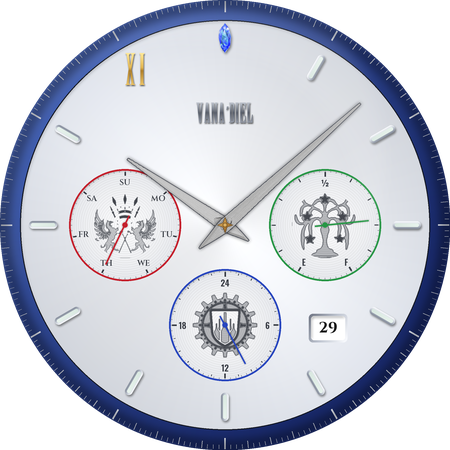
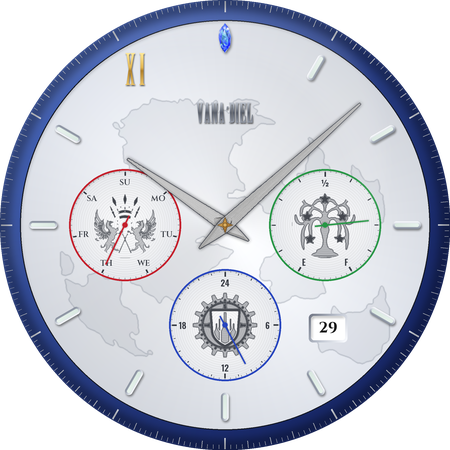
Watch face: faint Vana'diel world map behind all three styles
Land shapes are cut from the supplied parchment map (blue/red ratio,
which separates the tan land from the paler sea and its darker vignette)
into tools/emblems/worldmap_land.png, then drawn as a soft outline: light
on Classic's navy, a thin dim line on Dark, light-grey print on Light.
Always-on stays plain black.

Claude-Session: https://claude.ai/code/session_01DhcV9kAg7FMXufVfZQP7Ta

diff --git a/ffxi-watchface/tools/generate_assets.py b/ffxi-watchface/tools/generate_assets.py
@@ -23,6 +23,7 @@ FONT_LABEL = os.path.join(FONTS, 'Cinzel-SemiBold.ttf')  # nation names, day nam
 FONT_NUM = os.path.join(FONTS, 'Oswald-SemiBold.ttf')    # sub-dial numerals
 FONT_FF = os.path.join(FONTS, 'FinalFantasy.ttf')        # caps only; no digits/space/'
 EMBLEMS = os.path.join(os.path.dirname(__file__), 'emblems')  # square crops of the nation crests
+WORLD_LAND = os.path.join(EMBLEMS, 'worldmap_land.png')      # Vana'diel land mask
 
 # Layout (in 450px units) -- keep in sync with watchface.xml
 SUB_OFFSET = 100   # sub-dial centre distance from main centre
@@ -434,8 +435,11 @@ def make_dial(ambient=False, bright=0.6):
     size = (s(N), s(N))
     if ambient:
         img = Image.new('RGBA', size, (0, 0, 0, 255))
+        if bright >= 1:   # Dark style only; always-on stays plain black
+            draw_world(img, (0, 0, 0, 0), (70, 76, 90, 255), width=0.8)
     else:
         img = sunburst(size)
+        draw_world(img, (200, 215, 255, 14), (200, 215, 255, 46))
         # chapter ring: dark gunmetal, stepped down from the dial with a bright chamfer
         metal_ring(img, C, C, s(226), s(206), (10, 13, 19), (58, 64, 78))
         inner_shadow(img, ring_mask(size, C, C, s(226), s(206)), depth=1.2, blur=1.0, alpha=0.5)
@@ -507,7 +511,6 @@ POSITION_SCALE = {'left': 'days', 'right': 'battery', 'bottom': '24h'}
 LIGHT_LAYOUT = {'left': 'sandoria', 'right': 'windurst', 'bottom': 'bastok'}
 NATION_INK = {'sandoria': (196, 32, 44), 'windurst': (40, 150, 70), 'bastok': (40, 70, 190)}
 LIGHT_BLUE_RING = ((24, 40, 104), (66, 96, 178))
-WORLD_MAP = os.path.join(EMBLEMS, 'worldmap.png')   # optional: drop a map image here
 
 
 def light_sunburst(size):
@@ -518,19 +521,20 @@ def light_sunburst(size):
     return Image.fromarray(out.astype(np.uint8), 'RGB').convert('RGBA')
 
 
-def world_map_layer(img):
-    """The world map printed faintly in light grey across the dial (if the image exists)."""
-    if not os.path.exists(WORLD_MAP):
-        return
-    m = Image.open(WORLD_MAP).convert('L')
-    k = s(400) / max(m.size)
+def draw_world(img, fill, line, width=1.0, diameter=330):
+    """Rough outline of Vana'diel behind the dial furniture: land mask from
+    tools/emblems/worldmap_land.png (cut from worldmap_source.png), filled and outlined."""
+    from scipy import ndimage
+    m = Image.open(WORLD_LAND).convert('L')
+    k = s(diameter) / max(m.size)
     m = m.resize((round(m.width * k), round(m.height * k)), Image.LANCZOS)
-    a = np.asarray(m).astype(float)
-    ink = np.clip((a.mean() + 10 - a) / max(1, a.mean()), 0, 1)   # darker than average = land
-    layer = Image.new('L', img.size, 0)
-    layer.paste(Image.fromarray((ink * 255 * 0.16).astype(np.uint8)), (round(C - m.width / 2), round(C - m.height / 2)))
-    layer = Image.fromarray(np.minimum(np.asarray(layer), np.asarray(circle_mask(img.size, C, C, s(204)))))
-    fill_mask(img, layer, (120, 128, 142, 255))
+    land = Image.new('L', img.size, 0)
+    land.paste(m, (round(C - m.width / 2), round(C - m.height / 2 + s(6))))
+    a = np.asarray(land) > 127
+    edge = a & ~ndimage.binary_erosion(a, iterations=max(1, round(s(width))))
+    if fill[3]:
+        fill_mask(img, Image.fromarray((a * fill[3]).astype(np.uint8)).filter(ImageFilter.GaussianBlur(SS / 2)), fill[:3] + (255,))
+    fill_mask(img, Image.fromarray((edge * line[3]).astype(np.uint8)).filter(ImageFilter.GaussianBlur(SS / 3)), line[:3] + (255,))
 
 
 def lume_baton(img, deg, r0=168, r1=196, w=7.5):
@@ -589,7 +593,7 @@ def light_subdial(img, pos):
 def make_light_dial():
     size = (s(N), s(N))
     img = light_sunburst(size)
-    world_map_layer(img)
+    draw_world(img, (120, 128, 142, 26), (110, 118, 132, 90))
     # blue inner ring (rehaut) with fine white ticks
     metal_ring(img, C, C, s(226), s(205), *LIGHT_BLUE_RING)
     d = ImageDraw.Draw(img)

diff --git a/ffxi-watchface/README.md b/ffxi-watchface/README.md
@@ -8,8 +8,10 @@ A Pixel Watch / Wear OS watch face inspired by the Seiko × FINAL FANTASY XI
 
 Switch styles on the watch: long-press the face, tap **Customize**, then **Style** (Classic, Dark or Light).
 Light follows the real Seiko piece: silver-white dial, blue inner ring, lume batons, white sub-dials with
-nation-coloured rings and hands, and Windurst at 3 / Bastok at 6 as on the watch. Its faint world-map
-background is drawn from `tools/emblems/worldmap.png` when that image is present.
+nation-coloured rings and hands, and Windurst at 3 / Bastok at 6 as on the watch.
+
+All three styles carry a faint outline of Vana'diel behind the dial (not in always-on). The land shapes are
+cut from `tools/emblems/worldmap_source.png` into `tools/emblems/worldmap_land.png`.
 Dark is the minimalist outline look: thin outline hands, hairline sub-dial needles, a white line-drawn crystal
 at 12, a crystal-blue XI, no other hour markers, and all three crests in one style (grey silhouettes with a
 light edge, details picked out in white).
